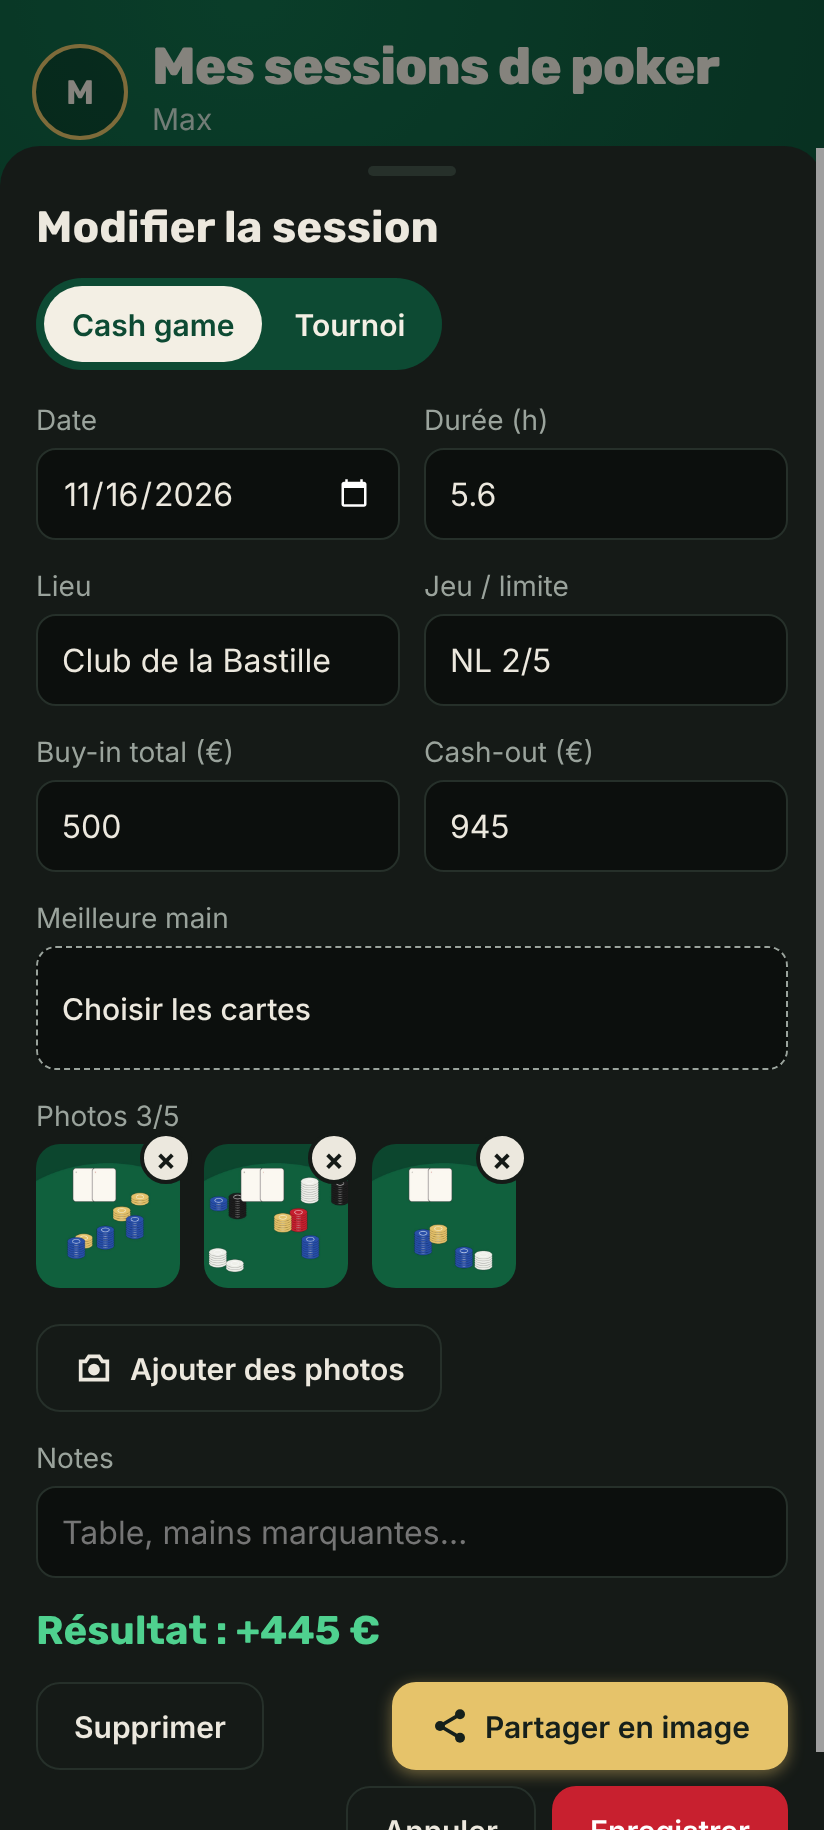
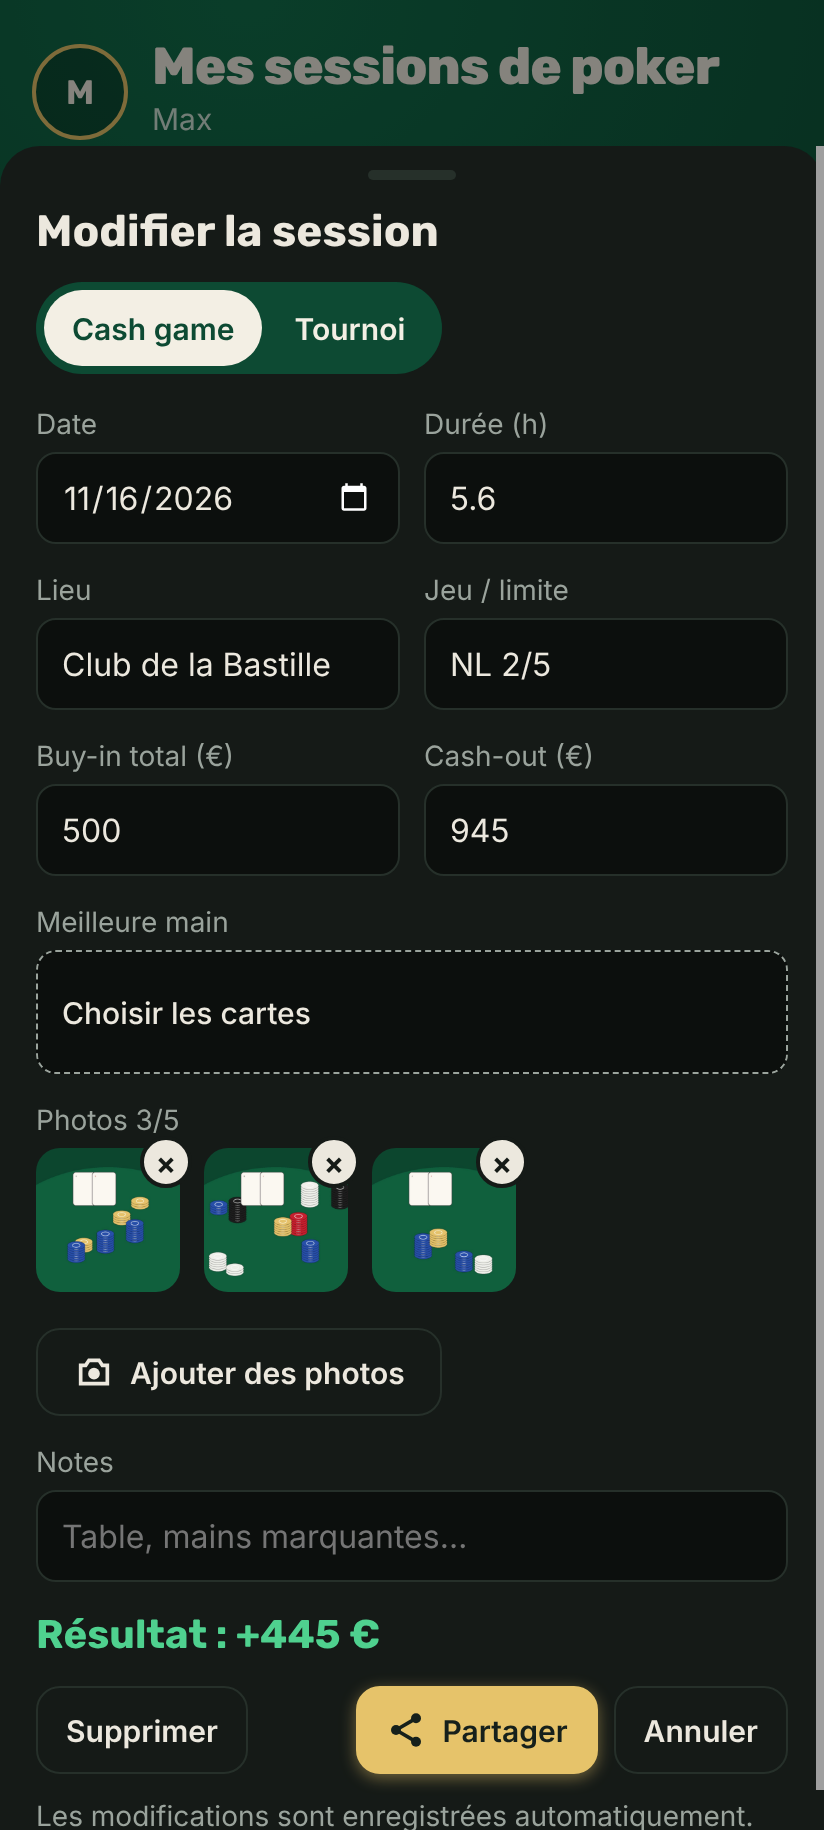
README : captures refaites sur la version actuelle, écran Démarrer ; nettoyage des photos fiable
Le nettoyage des photos au démarrage utilisait la liste chargée à l'ouverture :
une photo ajoutée dans les 3 premières secondes pouvait être effacée.

Claude-Session: https://claude.ai/code/session_017HMVdxhZ8qtyyjCT8cCJwj

diff --git a/js/app.js b/js/app.js
@@ -690,7 +690,7 @@ render();
 db.getLive().then(l => { LIVE = l || null; renderLive(); }).catch(() => {});
 db.getProfile().then(p => { P = p; if ($('pfs').classList.contains('on')) $('pfname').value = P.name || ''; renderProfile(); }).catch(() => {});
 db.all().then(rows => {
-  setTimeout(() => db.gcPhotos(new Set(rows.flatMap(photosOf))).catch(() => {}), 3000);
+  setTimeout(() => db.gcPhotos(new Set([...S, ...(orig ? [orig] : [])].flatMap(photosOf).concat(formPhotos.map(p => p.id)))).catch(() => {}), 3000);
   // Ancienne version : retire toute session d'exemple qui aurait été enregistrée, sans toucher aux vraies
   const demo = rows.filter(s => s.demo || /^demo\d+$/.test(s.id));
   S = rows.filter(s => !demo.includes(s));

diff --git a/js/version.js b/js/version.js
@@ -1,2 +1,2 @@
 // Version de l'appli : majeur.date.mineur. Mise à jour par `node tools/bump.mjs` avant chaque mise en ligne.
-self.APP_VERSION = '1.20261125.30';
+self.APP_VERSION = '1.20261125.31';

diff --git a/README.md b/README.md
@@ -19,9 +19,9 @@ Captures réalisées avec des données fictives, sur un écran de téléphone An
 |:---:|:---:|:---:|
 | <img src="docs/screenshots/6-partage.png" width="240" alt="Choix de l'image à partager"> | <img src="docs/screenshots/7-photos.png" width="240" alt="Fiche de session avec trois photos"> | <img src="docs/screenshots/7b-visionneuse.png" width="240" alt="Photo affichée en grand avec flèches"> |
 
-| Suppression par appui long |
-|:---:|
-| <img src="docs/screenshots/8-suppression.png" width="240" alt="Confirmation de suppression d'une session"> |
+| Suppression par appui long | Démarrer une session |
+|:---:|:---:|
+| <img src="docs/screenshots/8-suppression.png" width="240" alt="Confirmation de suppression d'une session"> | <img src="docs/screenshots/9-demarrer.png" width="240" alt="Démarrer une session : buy-in de départ"> |
 
 Images à partager (version détaillée, version photo et version album avec les photos de la session) :
 
@@ -30,15 +30,15 @@ Images à partager (version détaillée, version photo et version album avec les
 ## Fonctions
 
 - Sessions **cash game** (par défaut) ou **tournoi** : date, lieu, jeu/limite, buy-in (recaves comprises), cash-out, durée, place finale et nombre de joueurs.
-- **Enregistrement automatique** : pas de bouton Enregistrer, chaque saisie est enregistrée dès que le buy-in et le cash-out sont remplis. « Annuler » revient à l'état d'ouverture de la fiche (ou retire la session créée), fermer avec une saisie incomplète demande confirmation, et « Partager » demande au moins le buy-in et le cash-out.
-- **Session en direct** : le bouton « Démarrer » de l'accueil demande seulement le buy-in de départ et lance un chrono (type, lieu et jeu repris de la dernière session), on ajoute les recaves pendant la partie, puis on clôture avec le cash-out. Durée, buy-in total et gain horaire sont calculés, et la session en cours survit à la fermeture de l'appli.
+- **Enregistrement automatique** : pas de bouton Enregistrer, chaque saisie est enregistrée dès que le buy-in et le cash-out sont remplis. « Annuler » revient à l'état d'ouverture de la fiche (ou retire la session créée), fermer avec une saisie incomplète demande confirmation, et « Partager » demande au moins le buy-in et le cash-out. Seuls la date (préremplie), le buy-in et le cash-out sont obligatoires.
+- **Session en direct** : le bouton « ▶ Démarrer » de l'accueil, à côté de « + Session », demande seulement le buy-in de départ et lance un chrono (type, lieu et jeu repris de la dernière session), on ajoute les recaves pendant la partie, puis on clôture avec le cash-out. Durée, buy-in total et gain horaire sont calculés, et la session en cours survit à la fermeture de l'appli.
 - Courbe du **bénéfice cumulé**, filtre Tout / Cash / Tournoi.
 - Stats : bénéfice horaire, % de sessions gagnantes, plus gros gain et plus grosse perte, ROI et places payées en tournoi.
 - Onglet **Analyse** : bénéfice par mois, par lieu, par jeu/limite, écart-type par session, pire downswing, plus longue série perdante.
 - **Partage en image** d'une session ou du bilan (carte 1080×1350) en trois versions : détaillée, photo du joueur, et album avec les photos de la session (proposée seulement si la session en a), via le partage natif du téléphone (WhatsApp, Messages…), sinon téléchargement.
 - **Meilleure main** d'une session : sélecteur de cartes visuel, nom de la main détecté (Full, Couleur…), affichée dans l'historique et sur les images.
 - **Photos de session** : jusqu'à 5 photos par session, ajoutées en une fois ou une par une. Elles sont réduites à 1600 px en JPEG et stockées localement dans IndexedDB, et s'ouvrent en grand avec navigation par glissement ou flèches. L'appli demande un stockage persistant, et l'espace utilisé est affiché dans « À propos ». Les photos ne sont pas incluses dans la sauvegarde JSON.
-- **Gestes** : balayer horizontalement pour passer de Sessions à Analyse, appui long sur une session de la liste pour la supprimer (avec confirmation et « Annuler »).
+- **Gestes** : balayer horizontalement pour passer de Sessions à Analyse, appui long sur une session de la liste pour la supprimer (avec confirmation et « Annuler »), glisser vers le bas pour fermer une fenêtre.
 - **Paramètres** : nom de joueur, photo (recadrable : glisser, zoomer), couleur et main de départ préférée, repris sur les images partagées.
 - **Devise** au choix dans les Paramètres (€, $, £, CHF, C$), affichage uniquement, sans conversion.
 - **Français / anglais** : langue du téléphone par défaut, modifiable dans les Paramètres (textes, montants, dates, noms des mains et images partagées).
